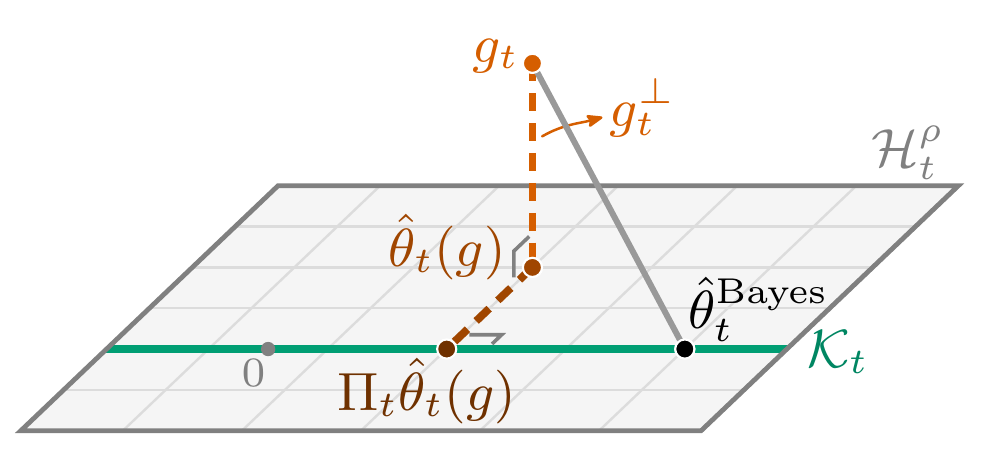
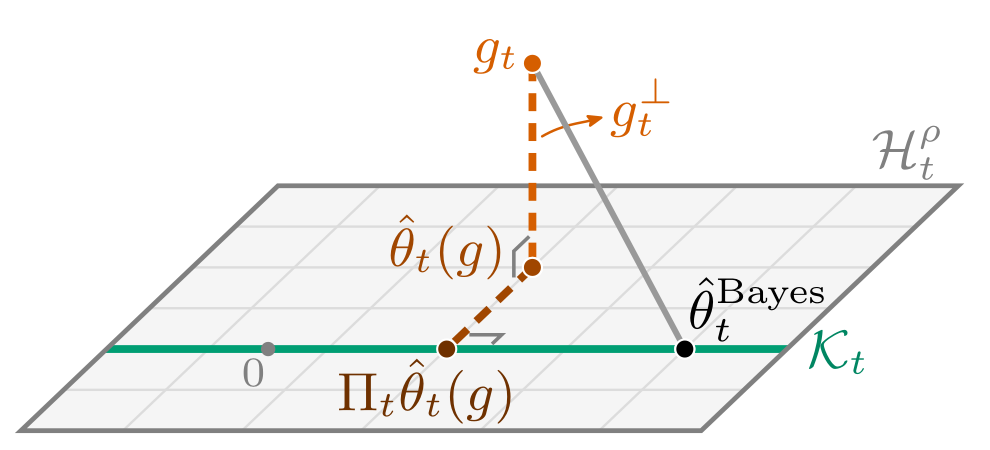
Use transparent backgrounds for homepage figures

diff --git a/index.html b/index.html
@@ -107,8 +107,8 @@
 
           <li class="pub">
             <a class="track-thumb track-thumb-pair" href="https://arxiv.org/abs/2609.32341" aria-label="Read the preprint: Attention versus State-Space Models for In-Context Learning">
-              <img src="assets/img/belief-geometry.png" width="990" height="450" loading="lazy" alt="Belief geometry: three orthogonal components connect the prediction to the Bayes belief." />
-              <img src="assets/img/routing-geometry.png?v=2" width="990" height="450" loading="lazy" alt="Belief geometry: addressing fidelity and belief alignment are illustrated as angles." />
+              <img src="assets/img/belief-geometry.png?v=2" width="990" height="450" loading="lazy" alt="Belief geometry: three orthogonal components connect the prediction to the Bayes belief." />
+              <img src="assets/img/routing-geometry.png?v=3" width="990" height="450" loading="lazy" alt="Belief geometry: addressing fidelity and belief alignment are illustrated as angles." />
             </a>
             <span class="pub-title">A Comparative Analysis of Attention versus State-Space Models for In-Context Learning</span>
             <span class="pub-meta">E. Arda, S. Cayci, A. Eryilmaz · Preprint, 2026 · <a href="https://arxiv.org/abs/2609.32341">arXiv</a></span>
@@ -116,7 +116,7 @@
 
           <li class="pub">
             <a class="track-thumb track-thumb-neurips" href="https://arxiv.org/abs/2610.04117" aria-label="Read the preprint: Sharp Convergence and Sample Complexity of Policy Mirror Descent for Average-Reward MDPs">
-              <img src="assets/img/neurips-rate-gap.png" width="1080" height="471" loading="lazy" alt="Policy mirror descent: the median trajectory-dependent mismatch relative to the worst-case bound decreases across four average-reward MDPs." />
+              <img src="assets/img/neurips-rate-gap.png?v=2" width="1080" height="471" loading="lazy" alt="Policy mirror descent: the median trajectory-dependent mismatch relative to the worst-case bound decreases across four average-reward MDPs." />
             </a>
             <span class="pub-title">Sharp Convergence and Sample Complexity of Policy Mirror Descent for Average-Reward MDPs</span>
             <span class="pub-meta">E. Arda, A. Eryilmaz · NeurIPS 2026 · Accepted · <a href="https://arxiv.org/abs/2610.04117">arXiv</a></span>
